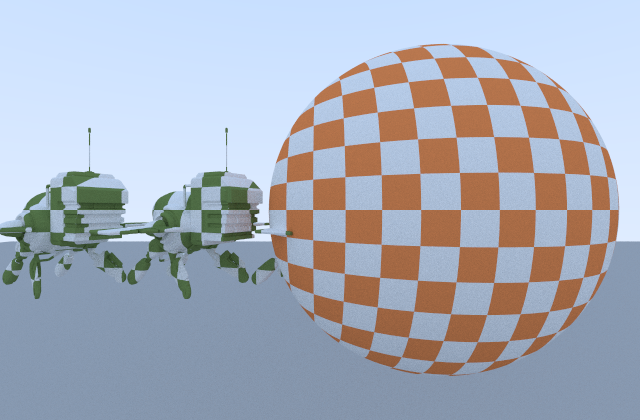
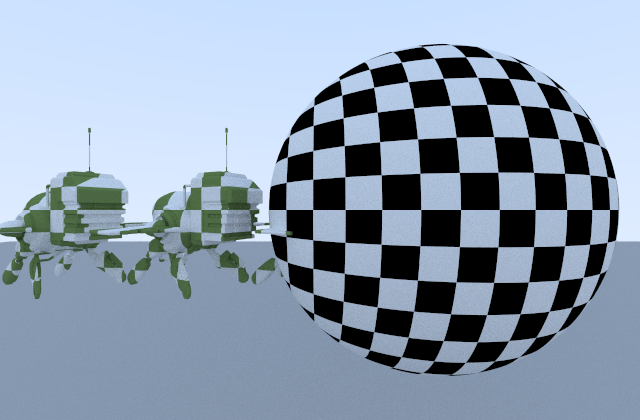
stuff

Changed region(s): [[0.3438, 0.0929, 0.9688, 0.8976]]

diff --git a/examples/cpu.rs b/examples/cpu.rs
@@ -493,7 +493,7 @@ fn main() {
 
     let checker_material_2 =
         scene.add_material(Rc::new(Lambertian::new(Rc::new(CheckerTexture::new(
-            Rc::new(UniformColorTexture::new(HdrColor::new(0.9, 0.3, 0.1, 1.0))),
+            Rc::new(UniformColorTexture::new(HdrColor::new(0.0, 0.0, 0.0, 1.0))),
             Rc::new(UniformColorTexture::new(HdrColor::new(0.9, 0.9, 0.9, 1.0))),
             10.0,
         )))));
